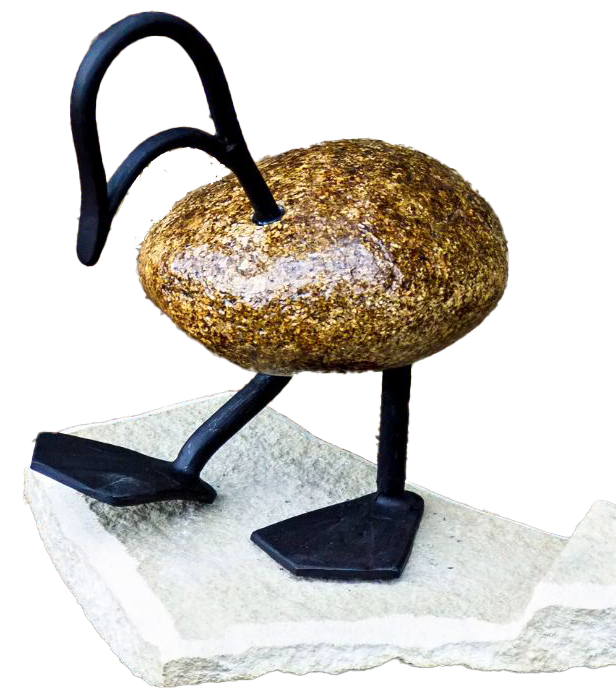
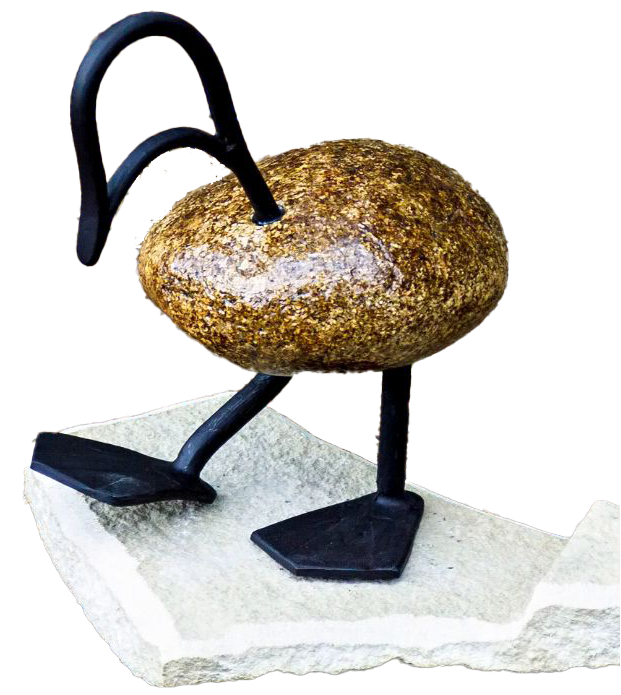
dev_1.7
Delete a blur filter on the first-screen-duck

diff --git a/index.html b/index.html
@@ -57,28 +57,10 @@
           </li>
           <li class="menu-item">
             <a class="menu-link" href="#products">Каталог</a>
-            <!-- <ul class="menu-products__list">
-              <li class="menu-products__item">
-                <a href="#" class="menu-link menu-products__link">
-                  Столики
-                </a>
-              </li>
-              <li class="menu-products__item">
-                <a href="#" class="menu-link menu-products__link">
-                  Столики
-                </a>
-              </li>
-            </ul> -->
           </li>
           <li class="menu-item">
             <a class="menu-link menu-link-contacts" href="#contacts" id="menu-link-contacts">Контакты</a>
           </li>
-          <!-- <li class="menu-item">
-            <a class="menu-link menu-link-to-call" href="tel:+79503079883">
-              Позвонить
-            </a>
-          </li> -->
-          <!-- <li class="menu-item menu-item-line"> -->
           <div class="menu-line"></div>
           <li class="menu-item">
             <a class="menu-link menu-link-tel" href="tel:+79503079883">

diff --git a/CSS/style.css b/CSS/style.css
@@ -545,7 +545,6 @@ ul {
   top: -40%;
   width: clamp(160px, 50%, 400px);
   z-index: 8;
-  filter: blur(1px);
 }
 
 @media(min-width: 540px) {
@@ -892,15 +891,15 @@ ul {
 }
 
 .contacts__link_tel::before {
-  background-image: url('../img/graphics/contacts__icon-1.png');
+  background-image: url('../img/graphics/contacts-icon-1.png');
 }
 
 .contacts__link_telegram::before {
-  background-image: url('../img/graphics/contacts__icon-2.png');
+  background-image: url('../img/graphics/contacts-icon-2.png');
 }
 
 .contacts__link_mail::before {
-  background-image: url('../img/graphics/contacts__icon-3.png');
+  background-image: url('../img/graphics/contacts-icon-3.png');
 }
 
 .contacts__swan {
